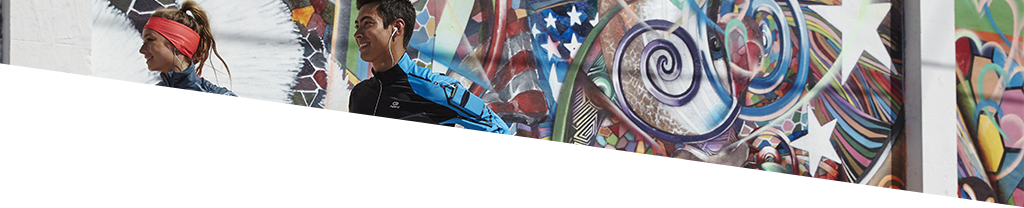
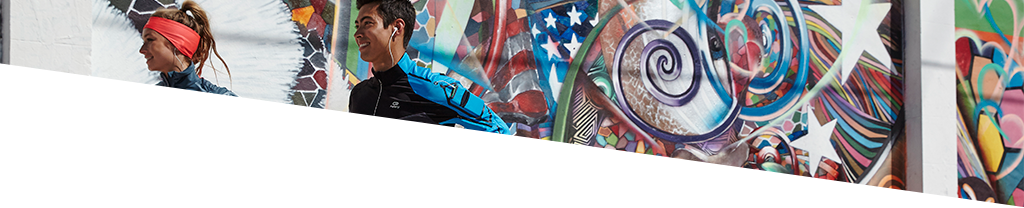
Improve image compression

diff --git a/tapiriik/web/templates/site.html b/tapiriik/web/templates/site.html
@@ -52,9 +52,9 @@
 	    	<div class="background">
 	    		<img class="border" src="{{ STATIC_URL}}img/decathlon/border.png">
 	    		{% if background_use %}
-	    			<img class="header" src="{{ STATIC_URL}}img/decathlon/background_0{{background_use}}.png">
+	    			<img class="header" src="{{ STATIC_URL}}img/decathlon/background_0{{background_use}}.jpg">
 	    		{% else %}
-	    			<img class="header" src="{{ STATIC_URL}}img/decathlon/main.png">
+	    			<img class="header" src="{{ STATIC_URL}}img/decathlon/main.jpg">
 	    		{% endif %}
 		    </div>
 		</div>
